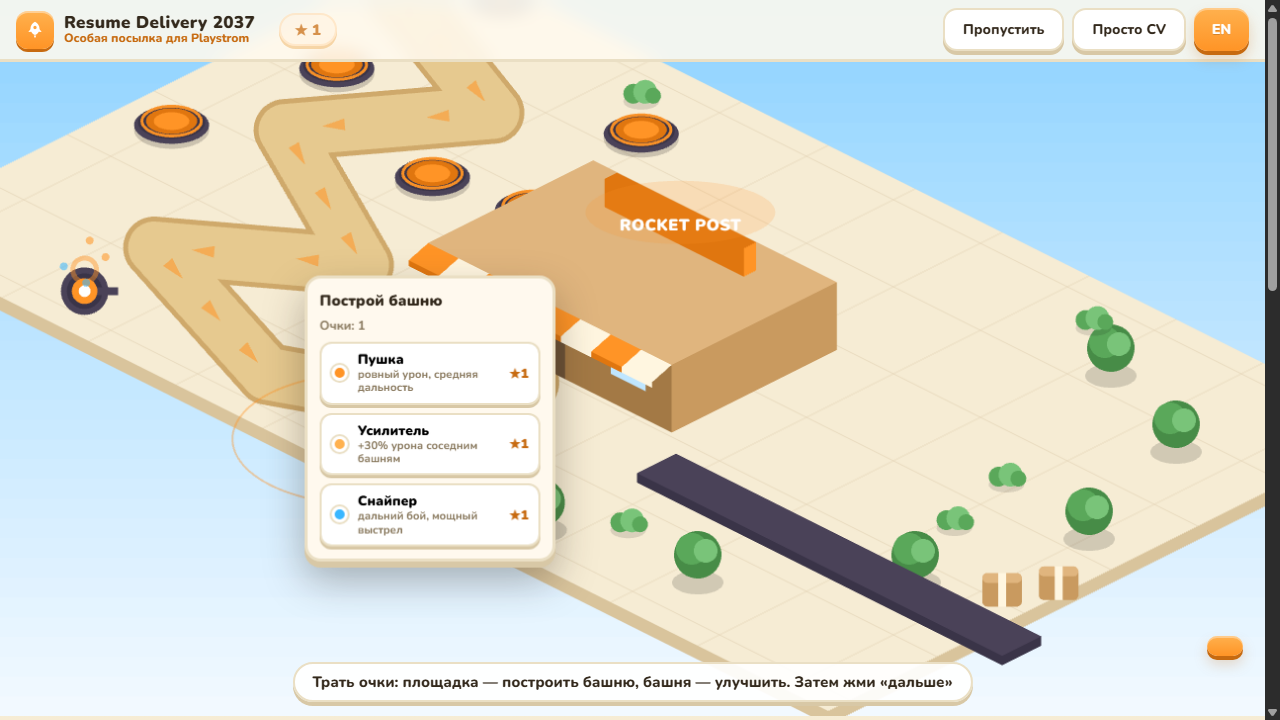
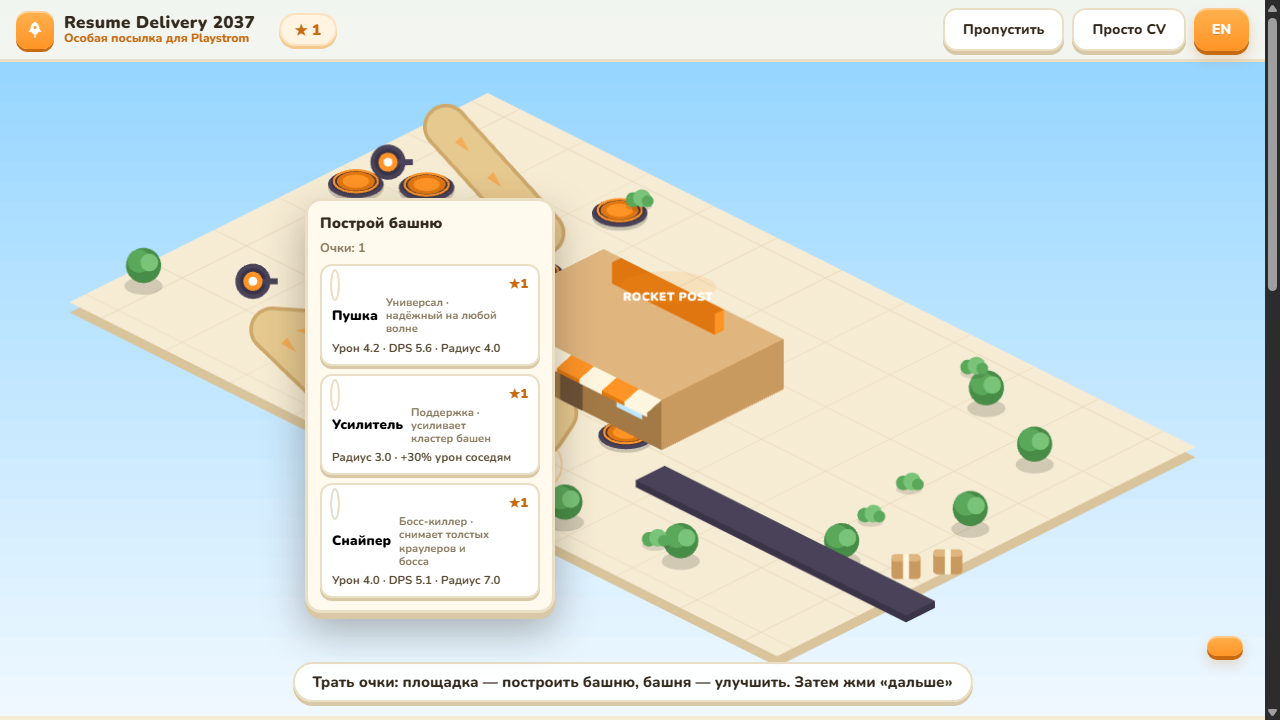
расчищаю дорогу от самопересечений и добавляю башням дизайн-паспорт
параллельные участки дороги разнесены - лента не складывается страницами; у башен явные роли с контр-плеем (универсал, босс-киллер, анти-рой, по площади, контроль, поддержка), мортира получает осколочный урон по группе, меню показывает урон, dps, радиус и против кого эффективна башня, улучшение показывает прирост dps

diff --git a/js/ui.js b/js/ui.js
@@ -1,6 +1,6 @@
 // DOM-интерфейс: интро, карточки, тюнер с живой математикой, отчёт, финал, CV
 import { Loc } from './loc.js';
-import { arsenalDps, forecastBreaks } from './data.js';
+import { arsenalDps, forecastBreaks, towerStats, BOXES } from './data.js';
 
 const $ = id => document.getElementById(id);
 
@@ -70,18 +70,20 @@ export const ui = {
     info.textContent = Loc.t('points') + ': ' + opts.points;
 
     if (opts.tower) {
+      // улучшение: показываем прирост характеристик уровень в уровень
       const t = opts.tower;
-      title.textContent = Loc.t('tw_' + t.kind) + ' · ур. ' + t.level;
-      const st = t.stats();
-      info.textContent = (t.kind === 'slow' || t.kind === 'amp'
+      title.textContent = Loc.t('tw_' + t.kind) + ' · ' + Loc.t('twr_' + t.kind);
+      const now = t.stats();
+      const dps = s => (s.dmg / s.interval).toFixed(1);
+      info.textContent = t.kind === 'slow' || t.kind === 'amp'
         ? Loc.t('twd_' + t.kind)
-        : 'DPS ' + (st.dmg / st.interval).toFixed(1)) + ' · ' + Loc.t('points') + ': ' + opts.points;
+        : `${Loc.t('next_dps')} ${dps(now)} → ${dps(t.nextStats())} · ${Loc.t('points')}: ${opts.points}`;
       menu.appendChild(title);
       menu.appendChild(info);
       const btn = document.createElement('button');
       btn.className = 'bm-item';
       btn.disabled = opts.points <= 0;
-      btn.innerHTML = `<span class="bm-name">${Loc.t('menu_upgrade')} ${t.level + 1}<small>+35% урона · +10% радиуса</small></span><span class="bm-cost">★1</span>`;
+      btn.innerHTML = `<span class="bm-name">${Loc.t('menu_upgrade')} ${t.level + 1}<small>+35% ${Loc.t('stat_dmg_s').toLowerCase()} · +10% ${Loc.t('stat_rng_s').toLowerCase()}</small></span><span class="bm-cost">★1</span>`;
       btn.onclick = () => { this.hideBuildMenu(); opts.onUpgrade(); };
       menu.appendChild(btn);
     } else {
@@ -96,11 +98,19 @@ export const ui = {
       }
       const dotColor = { cannon: '#ff9426', sniper: '#3ab7ff', minigun: '#8a7a5f', mortar: '#d96f14', slow: '#38b6ff', amp: '#ffb14e' };
       for (const kind of opts.kinds) {
+        // читаемые характеристики: роль, цифры, контр-плей
+        const base = towerStats(BOXES.find(b => b.kind === kind), { dmg: 0, rof: 0, rng: 0 });
+        const stats = kind === 'slow'
+          ? `${Loc.t('stat_rng_s')} ${base.range.toFixed(1)} · −45% ${Loc.t('stat_dps_s').toLowerCase()} врагам`
+          : kind === 'amp'
+            ? `${Loc.t('stat_rng_s')} ${base.range.toFixed(1)} · +30% ${Loc.t('stat_dmg_s').toLowerCase()} соседям`
+            : `${Loc.t('stat_dmg_s')} ${base.dmg.toFixed(1)} · ${Loc.t('stat_dps_s')} ${(base.dmg / base.interval).toFixed(1)} · ${Loc.t('stat_rng_s')} ${base.range.toFixed(1)}`;
         const btn = document.createElement('button');
         btn.className = 'bm-item';
         btn.disabled = opts.points <= 0;
         btn.innerHTML = `<span class="bm-dot" style="background:${dotColor[kind] || '#ff9426'}"></span>`
-          + `<span class="bm-name">${Loc.t('tw_' + kind)}<small>${Loc.t('twd_' + kind)}</small></span>`
+          + `<span class="bm-name">${Loc.t('tw_' + kind)}<small>${Loc.t('twr_' + kind)} · ${Loc.t('twa_' + kind)}</small></span>`
+          + `<span class="bm-stats">${stats}</span>`
           + `<span class="bm-cost">★1</span>`;
         btn.onclick = () => { this.hideBuildMenu(); opts.onPick(kind); };
         menu.appendChild(btn);

diff --git a/js/data.js b/js/data.js
@@ -47,30 +47,31 @@ export const WAVES = [
   { id: 'w3', drones: 6, crawlers: 2, swarm: 8, boss: true,  hpMult: 2.2, speed: 1.5, interval: 0.6 },
 ];
 
-// маршрут роботов QuickBox — serpentine от левого края к двери Rocket Post
+// маршрут роботов QuickBox — serpentine от левого края к двери Rocket Post,
+// параллельные участки разнесены, лента не складывается сама на себя
 export const PATH = [
-  [-10.8, -5.2],
-  [-6.6, -3.4],
-  [-8.6, -0.6],
-  [-4.6, 1.6],
-  [-7.4, 3.6],
-  [-3.2, 5.2],
-  [0.6, 3.4],
+  [-10.6, -4.8],
+  [-5.8, -3.0],
+  [-8.6, -0.2],
+  [-3.4, 1.4],
+  [-7.0, 4.2],
+  [-2.6, 5.6],
+  [0.4, 3.2],
   [0.0, 2.4],
 ];
 
-// площадки для башен — в карманах изгибов дороги
+// площадки для башен — в карманах между участками дороги
 export const SPOTS = [
-  [-9.4, -2.6],
-  [-5.8, -1.2],
-  [-3.9, -1.6],
-  [-10.0, 0.6],
-  [-9.2, -6.2],
-  [-4.4, -4.6],
-  [-7.2, 5.4],
-  [-0.6, 5.6],
-  [-1.4, 2.4],
-  [2.0, 4.6],
+  [-9.0, -2.6],
+  [-5.2, -4.8],
+  [-10.2, -1.6],
+  [-4.6, -1.6],
+  [-6.8, 2.2],
+  [-2.0, 3.0],
+  [-8.8, 3.0],
+  [0.2, 5.4],
+  [1.8, 2.0],
+  [-10.4, -2.8],
 ];
 
 // ширина дороги в мировых единицах (полуширина)
@@ -85,14 +86,14 @@ export const DECOR_BUSHES = [
   [7.8, -0.8], [5.6, 4.9], [-5.2, -5.4], [8.2, 0.8], [5.2, -5.4],
 ];
 
-// карточки башен для меню выбора
+// дизайн-паспорт башен: явные роли и контр-плей — то, что оценивает геймдизайнер
 export const TOWER_INFO = {
-  cannon:  { name: 'Пушка',     desc: 'ровный урон, средняя дальность' },
-  sniper:  { name: 'Снайпер',   desc: 'дальний бой, мощный выстрел' },
-  minigun: { name: 'Пулемёт',   desc: 'низкий урон, высокая скорострельность' },
-  mortar:  { name: 'Мортира',   desc: 'тяжёлый урон, медленная перезарядка' },
-  slow:    { name: 'Дрон-сдерживатель', desc: 'замедляет роботов рядом' },
-  amp:     { name: 'Усилитель', desc: '+30% урона соседним башням' },
+  cannon:  { role: 'Универсал',   anti: 'надёжный на любой волне' },
+  sniper:  { role: 'Босс-киллер', anti: 'снимает толстых краулеров и босса' },
+  minigun: { role: 'Анти-рой',    anti: 'выкашивает быстрых мелких роботов' },
+  mortar:  { role: 'По площади',  anti: 'осколки бьют группу на подлёте', splash: 1.2 },
+  slow:    { role: 'Контроль',    anti: 'держит рой под огнём пушек', slow: 0.55 },
+  amp:     { role: 'Поддержка',   anti: 'усиливает кластер башен', buff: 1.3 },
 };
 
 export const CONVEYOR = { from: [11.5, 3.0], to: [4.0, 3.0], speed: 2.4 };

diff --git a/js/game.js b/js/game.js
@@ -137,9 +137,10 @@ class Enemy {
 
 // ---- снаряд ----
 class Projectile {
-  constructor(from, target, dmg) {
+  constructor(from, target, dmg, splash = 0) {
     this.target = target;
     this.dmg = dmg;
+    this.splash = splash;
     this.vx = 0; this.vy = 0;
     this.view = new PIXI.Graphics();
     this.view.circle(0, 0, 8).fill(C.orange);
@@ -162,6 +163,7 @@ class Projectile {
     if (this.target && !this.target.dead && dist < 24) {
       this.target.hit(this.dmg);
       if (this.target.dead) game.waveKilled++;
+      if (this.splash > 0) game.splashAt(tx, ty, this.splash, this.dmg * 0.5);
       this.destroy();
       return;
     }
@@ -197,6 +199,14 @@ class Tower {
     const lvl = 1 + 0.35 * (this.level - 1);
     const lvlRange = 1 + 0.1 * (this.level - 1);
     return { ...s, dmg: s.dmg * lvl, range: s.range * lvlRange };
+  }
+
+  // характеристики следующего уровня — для превью улучшения
+  nextStats() {
+    this.level++;
+    const s = this.stats();
+    this.level--;
+    return s;
   }
 
   buildView() {
@@ -304,7 +314,7 @@ class Tower {
     for (const t of game.towers) {
       if (t.kind === 'amp' && Math.hypot(SPOTS[t.spotIdx][0] - SPOTS[this.spotIdx][0], SPOTS[t.spotIdx][1] - SPOTS[this.spotIdx][1]) <= t.stats().range) buff *= 1.3;
     }
-    game.shots.push(new Projectile(muzzle, best, st.dmg * buff));
+    game.shots.push(new Projectile(muzzle, best, st.dmg * buff, this.kind === 'mortar' ? 1.2 : 0));
     this.flash.visible = true;
     tween(this.flash, { alpha: 0 }, 0.12, () => { this.flash.visible = false; this.flash.alpha = 1; });
   }
@@ -651,6 +661,18 @@ export const game = {
 
   updateShots(dt) {
     for (let i = this.shots.length - 1; i >= 0; i--) this.shots[i].update(dt);
+  },
+
+  // осколки мортиры: урон всем роботам вокруг точки попадания
+  splashAt(screenX, screenY, radius, dmg) {
+    for (const e of [...this.enemies]) {
+      const p = iso(e.world.x, e.world.y, 0.6);
+      if (Math.hypot(p.x - screenX, p.y - screenY) < radius * SX) {
+        e.hit(dmg);
+        if (e.dead) this.waveKilled++;
+      }
+    }
+    this.spawnPop(screenX, screenY, false);
   },
 
   // поп-эффект: кольцо + искры

diff --git a/js/loc.js b/js/loc.js
@@ -34,6 +34,14 @@ const Ru = {
   tw_mortar: 'Мортира', twd_mortar: 'тяжёлый урон, медленная перезарядка',
   tw_slow: 'Дрон-сдерживатель', twd_slow: 'замедляет роботов рядом',
   tw_amp: 'Усилитель', twd_amp: '+30% урона соседним башням',
+  twr_cannon: 'Универсал', twa_cannon: 'надёжный на любой волне',
+  twr_sniper: 'Босс-киллер', twa_sniper: 'снимает толстых краулеров и босса',
+  twr_minigun: 'Анти-рой', twa_minigun: 'выкашивает быстрых мелких роботов',
+  twr_mortar: 'По площади', twa_mortar: 'осколки бьют группу на подлёте',
+  twr_slow: 'Контроль', twa_slow: 'держит рой под огнём пушек',
+  twr_amp: 'Поддержка', twa_amp: 'усиливает кластер башен',
+  stat_dmg_s: 'Урон', stat_dps_s: 'DPS', stat_rng_s: 'Радиус',
+  anti: 'против:', next_dps: 'DPS →',
   scanning: 'Сканирую…',
   ok: 'Понятно',
   // тюнер
@@ -114,6 +122,14 @@ const En = {
   tw_mortar: 'Mortar', twd_mortar: 'heavy damage, slow reload',
   tw_slow: 'Hold-out drone', twd_slow: 'slows nearby robots',
   tw_amp: 'Amplifier', twd_amp: '+30% damage to neighbor towers',
+  twr_cannon: 'All-rounder', twa_cannon: 'reliable on any wave',
+  twr_sniper: 'Boss-killer', twa_sniper: 'shreds tough crawlers and the boss',
+  twr_minigun: 'Anti-swarm', twa_minigun: 'mows down fast little robots',
+  twr_mortar: 'Splash', twa_mortar: 'frag hits the whole group',
+  twr_slow: 'Control', twa_slow: 'holds the swarm under fire',
+  twr_amp: 'Support', twa_amp: 'boosts a tower cluster',
+  stat_dmg_s: 'Damage', stat_dps_s: 'DPS', stat_rng_s: 'Range',
+  anti: 'counter:', next_dps: 'DPS →',
   scanning: 'Scanning…',
   ok: 'Got it',
   tuner_title: 'Tower tuner',

diff --git a/style.css b/style.css
@@ -127,10 +127,8 @@ nav { display: flex; gap: 8px; }
 .bm-title { font-weight: 900; font-size: 15px; margin-bottom: 6px; }
 .bm-info { font-size: 12.5px; color: var(--muted); font-weight: 700; margin-bottom: 8px; }
 .bm-item {
-  display: grid;
-  grid-template-columns: auto 1fr auto;
-  align-items: center;
-  gap: 10px;
+  position: relative;
+  display: block;
   width: 100%;
   text-align: left;
   background: #fff;
@@ -143,14 +141,21 @@ nav { display: flex; gap: 8px; }
   font: inherit;
   transition: transform 0.08s, background 0.15s;
 }
+.bm-stats {
+  display: block;
+  margin-top: 4px;
+  font-size: 11.5px;
+  color: #5c4d36;
+  font-weight: 700;
+}
 .bm-item:last-child { margin-bottom: 0; }
 .bm-item:hover:not(:disabled) { background: #fff7e8; }
 .bm-item:active:not(:disabled) { transform: translateY(2px); box-shadow: 0 1px 0 var(--panel-edge2); }
 .bm-item:disabled { opacity: 0.5; cursor: not-allowed; }
 .bm-dot { width: 16px; height: 16px; border-radius: 50%; border: 3px solid #fff; box-shadow: 0 0 0 2px var(--panel-edge); }
-.bm-name { font-weight: 900; font-size: 13.5px; display: flex; flex-direction: column; line-height: 1.2; }
+.bm-name { font-weight: 900; font-size: 13.5px; display: flex; align-items: center; gap: 8px; line-height: 1.2; padding-right: 30px; }
 .bm-name small { color: var(--muted); font-weight: 700; font-size: 11px; }
-.bm-cost { font-weight: 900; color: var(--orange-dark); font-size: 13px; }
+.bm-cost { position: absolute; top: 8px; right: 10px; font-weight: 900; color: var(--orange-dark); font-size: 13px; }
 
 /* ---- кнопка «следующая посылка» ---- */
 .next-btn {

diff --git a/js/main.js b/js/main.js
@@ -1,7 +1,7 @@
 // Точка входа: PixiJS → сцена → интерфейс
 import { game } from './game.js';
 import { ui } from './ui.js';
-import { BOXES } from './data.js';
+import { BOXES, WAVES } from './data.js';
 import { Loc } from './loc.js';
 
 try {
@@ -31,6 +31,7 @@ try {
     } else if (shot === 'wave') {
       stage3();
       game.multipliers = { dmg: 1.4, rof: 1.4, rng: 0.2 };
+      WAVES[0].hpMult = 6; // роботы доживают до кадра
       game.startWave();
       // прокручиваю игровое время вручную: headless не качает rAF-тикер
       for (let i = 0; i < 34; i++) game.update(0.1);
